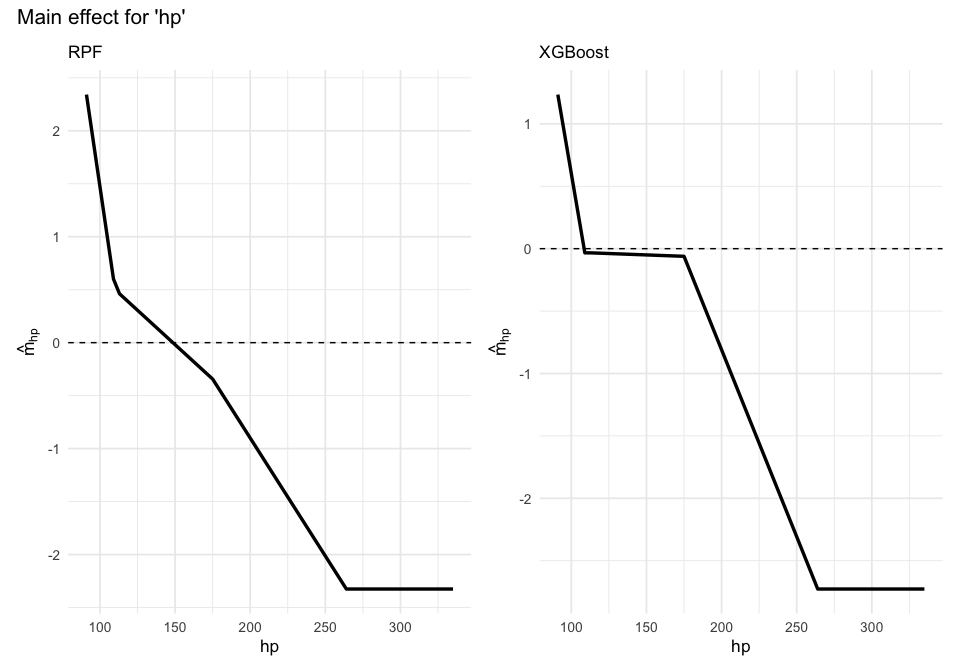
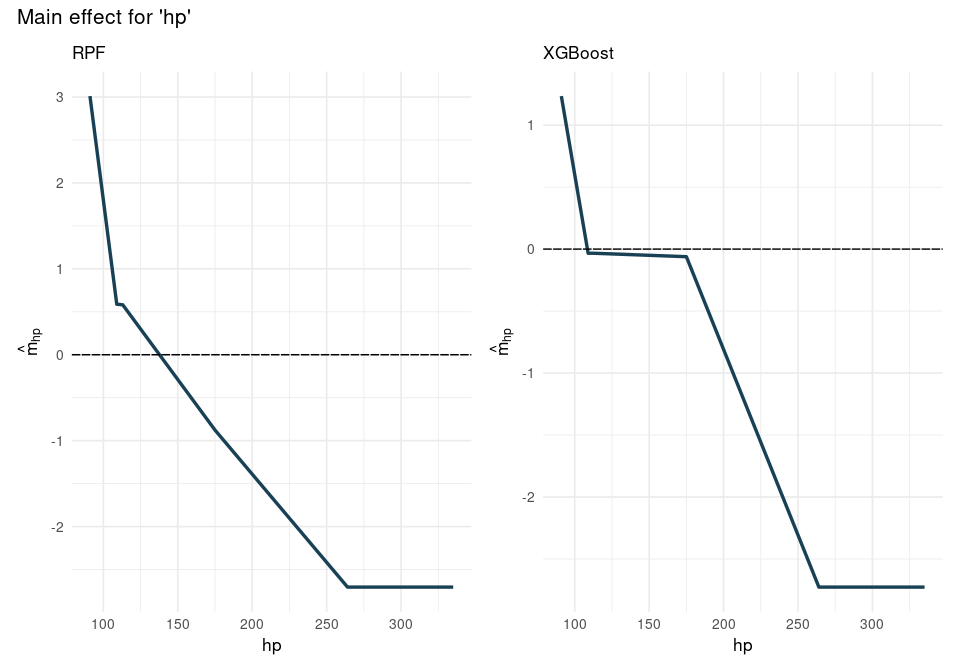
Re-align README.Rmd and README.md

diff --git a/README.md b/README.md
@@ -10,12 +10,18 @@
 coverage](https://codecov.io/gh/PlantedML/glex/branch/master/graph/badge.svg)](https://app.codecov.io/gh/PlantedML/glex?branch=master)
 <!-- badges: end -->
 
-Global explanations for tree-based models by decomposing regression or
+Global explanations for tree-based models by decomposing regression or  
 classification functions into the sum of main components and interaction
-components of arbitrary order. Calculates exact intervetniaonal SHAP values and q-interaction
-interventional SHAP (q being the highest order of interaction present in the model) for tree-based models such as xgboost.
+components of arbitrary order. Calculates exact interventional SHAP
+values and q-interaction interventional SHAP (q being the highest order
+of interaction present in the model) for tree-based models such as
+XGBoost.
 
-See the accompanying paper for more details and exact definitions: “Unifying local and global model explanations by functional decomposition of low dimensional structures" [(arxiv)](https://arxiv.org/abs/2208.06151).
+See the accompanying paper for more details and exact definitions:
+“Unifying local and global model explanations by functional
+decomposition of low dimensional structures”
+[(arxiv)](https://arxiv.org/abs/2208.06151).
+
 ## Installation
 
 You can install the development version of glex from
@@ -109,12 +115,12 @@ cbind(pred_xgb, sum_m_xgb, sum_shap_xgb)
 # For RPF
 cbind(pred_rpf, sum_m_rpf)
 #>      pred_rpf sum_m_rpf
-#> [1,] 28.29398  28.29398
-#> [2,] 26.02555  26.02555
-#> [3,] 18.33365  18.33365
-#> [4,] 20.30721  20.30721
-#> [5,] 15.22179  15.22179
-#> [6,] 24.75446  24.75446
+#> [1,] 28.82532  28.82532
+#> [2,] 26.15614  26.15614
+#> [3,] 18.21634  18.21634
+#> [4,] 19.03077  19.03077
+#> [5,] 14.40612  14.40612
+#> [6,] 23.40146  23.40146
 ```
 
 ### Variable Importances
@@ -130,11 +136,11 @@ vi_xgb <- glex_vi(glex_xgb)
 vi_rpf[1:5, c("degree", "term", "m")]
 #>    degree   term         m
 #>     <int> <char>     <num>
-#> 1:      1     hp 1.3998532
-#> 2:      1     wt 1.1725086
-#> 3:      1   disp 1.0441441
-#> 4:      1   drat 0.8630354
-#> 5:      1    cyl 0.5955195
+#> 1:      1     hp 1.7444502
+#> 2:      1     wt 0.9335066
+#> 3:      1   drat 0.9220123
+#> 4:      1   disp 0.9151442
+#> 5:      1    cyl 0.4683222
 vi_xgb[1:5, c("degree", "term", "m")]
 #>    degree   term         m
 #>     <int> <char>     <num>
